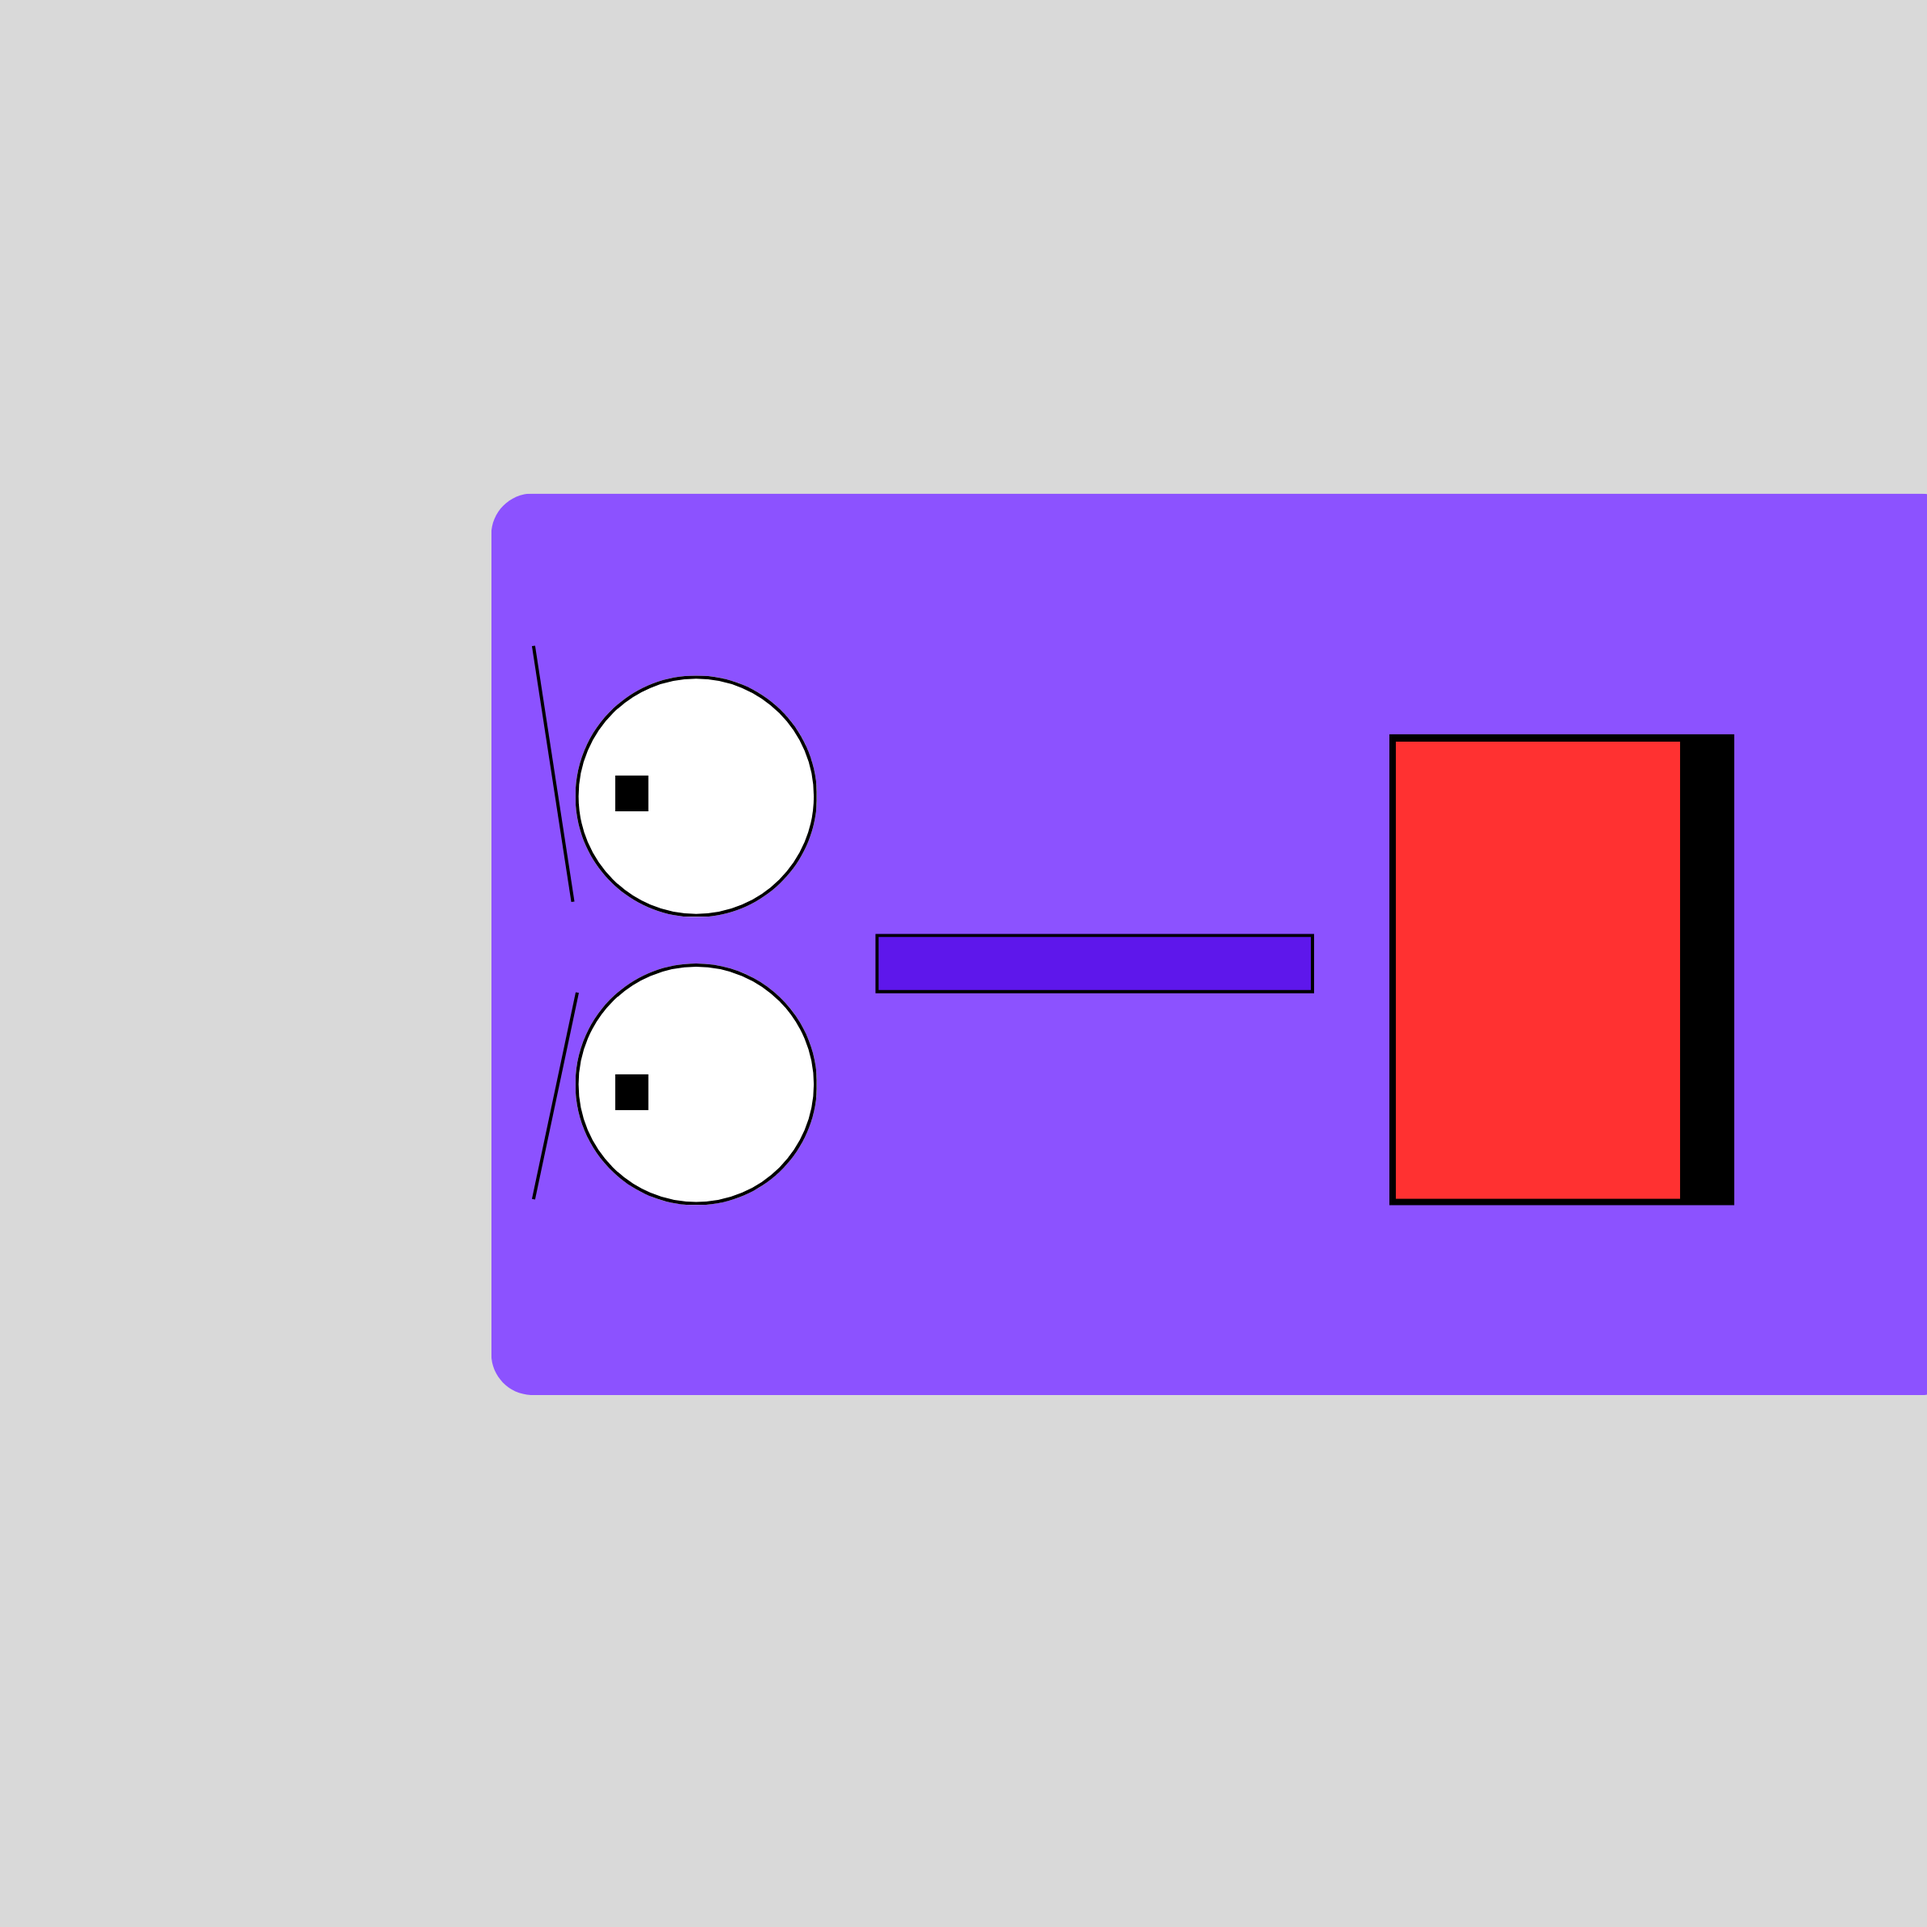
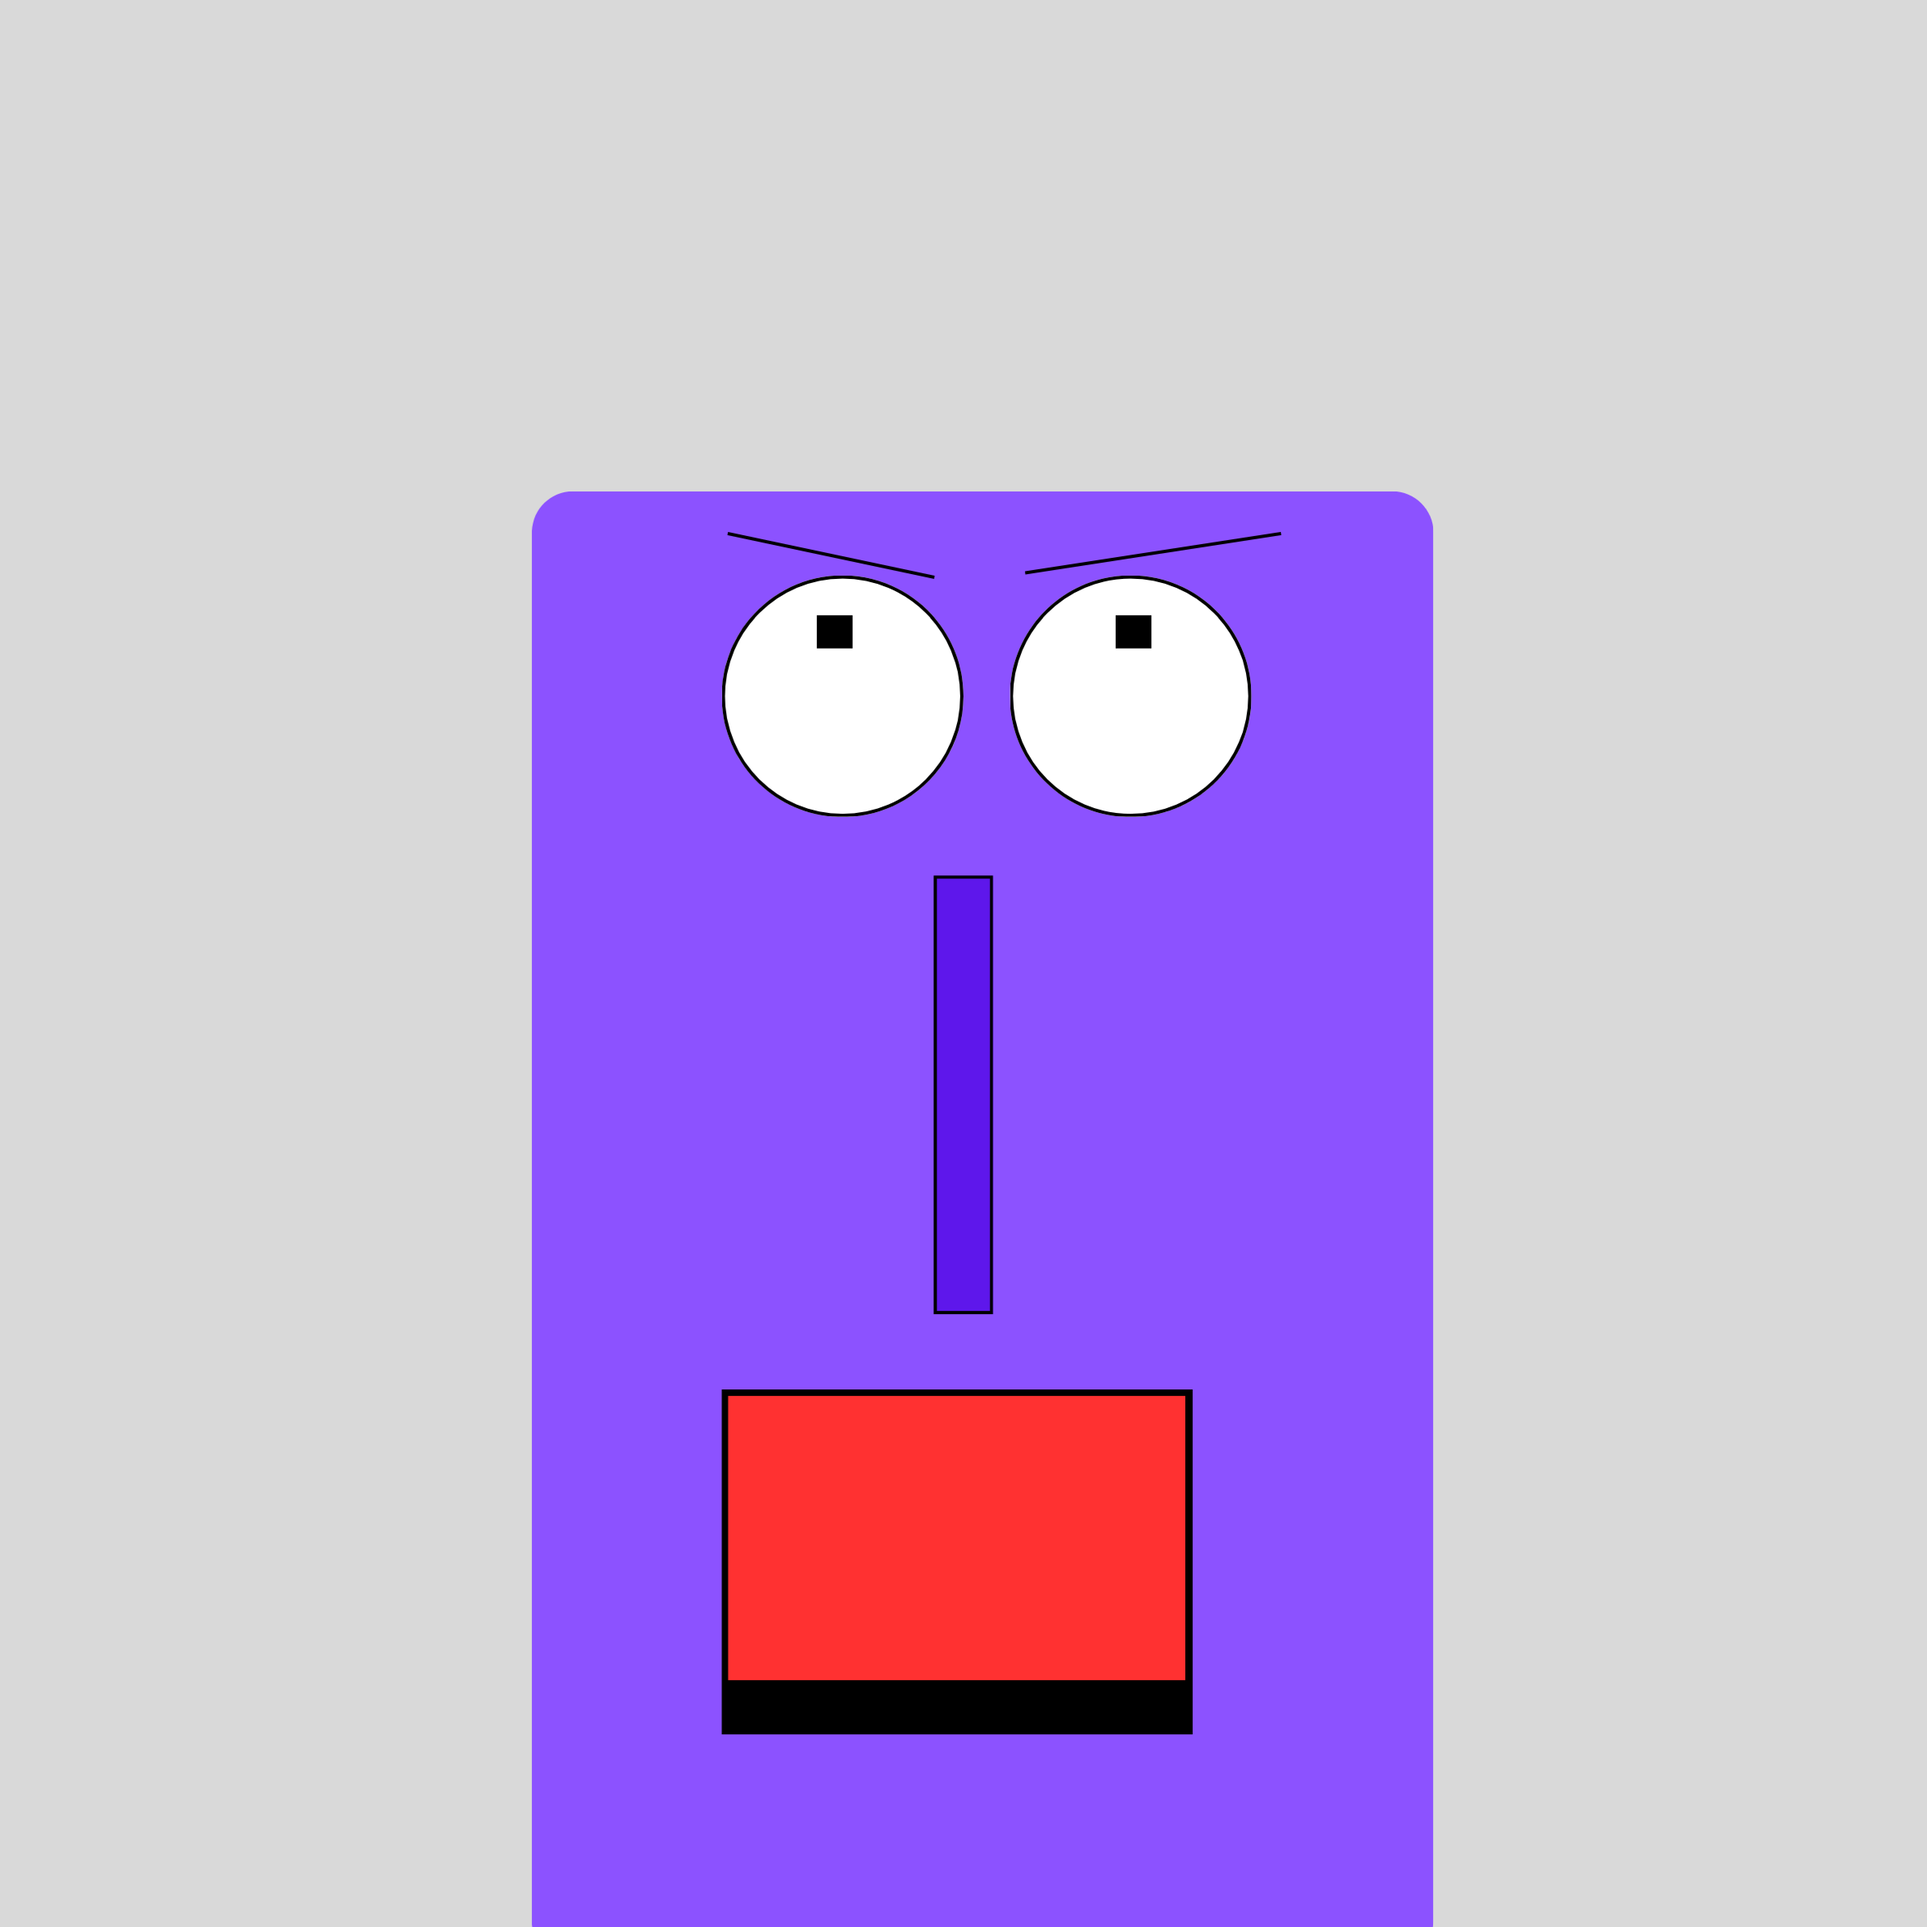
modified model

diff --git a/updatescript.py b/updatescript.py
@@ -1,12 +1,10 @@
 import os
 import json
 
-
 event_path = os.getenv('GITHUB_EVENT_PATH')
 
-
 if not event_path:
-    print("GitHub event data not found.")
+    print("GitHub event data not found")
     exit(1)
 
 
@@ -20,16 +18,8 @@ def printBoard(matrix):
         for j, cell in enumerate(row):
             if cell == "HangryHunger":
                 markdown_content += "![](https://github.com/merge-my-pr/merge-my-pr/blob/main/files/HangryHunger.png) | "
-            elif cell == "HangryHungerBody":
-                markdown_content += "![](https://github.com/merge-my-pr/merge-my-pr/blob/main/files/HangryHubgerBody.png) | "
-            elif cell == "HangryHungerTail":
-                markdown_content += "![](https://github.com/merge-my-pr/merge-my-pr/blob/main/files/HangryHungerTail.png) | "
             elif cell == "Tile":
                 markdown_content += "![](https://github.com/merge-my-pr/merge-my-pr/blob/main/files/GrayTile.png) | "
-            elif cell == "HangryHungerCurvedBody":
-                markdown_content += "![](https://github.com/merge-my-pr/merge-my-pr/blob/main/files/HangryHungerCurvedBody.png) | "
-            elif cell == "HangryHungerHeadUp":
-                markdown_content += "![](https://github.com/merge-my-pr/merge-my-pr/blob/main/files/HangryHungerHeadUp.png) | "
             else:
                 print("Invalid space")
         markdown_content += "\n"
@@ -40,15 +30,10 @@ matrix = [
     ["Tile"] * 7,
     ["Tile"] * 7,
     ["Tile"] * 7,
-    ["Tile"] * 7,
-    ["Tile"] * 7,
-    ["Tile"] * 7,
+    ["Tile"] * 7
 ]
 
 matrix[1][3]="HangryHunger"
-matrix[1][4]="HangryHungerBody"
-matrix[1][5]="HangryHungerTail"
-
 
 issue_author = event_data['issue']['user']['login']
 issue_name =event_data['issue']['title']
@@ -70,19 +55,18 @@ def move_snake(matrix, direction):
         # matrix[3][3] = "HangryHungerHeadUp"
         # matrix[4][3] = "HangryHungerCurvedBody"
         # matrix[4][4] = "HangryHungerTail"
-        matrix[new_head_row][new_head_col] = "HangryHungerHeadUp"
-        matrix[head_row][head_col+1] = "HangryHungerTail" 
-        matrix[head_row][head_col+2] = "Tile" 
-        matrix[head_row][head_col]="HangryHungerCurvedBody"
+        # matrix[new_head_row][new_head_col] = "HangryHungerHeadUp"
+        # matrix[head_row][head_col+1] = "HangryHungerTail" 
+        # matrix[head_row][head_col+2] = "Tile" 
+        # matrix[head_row][head_col]="HangryHungerCurvedBody"
+        matrix[new_head_row][new_head_col]="HangryHunger"
+        matrix[head_row][head_col]="Tile"
         print("Snake moved up")
     else:
         print("Invalid direction")
 
-def resetSnake(matrix):
+def resetHunger(matrix):
     matrix[1][3]="HangryHunger"
-    matrix[1][4]="HangryHungerBody"
-    matrix[1][5]="HangryHungerTail"
-
 
 if issue_name == "Move|UP":
         move_snake(matrix,"UP")
@@ -99,7 +83,7 @@ if issue_name == "Move|UP":
             file.write(updated_readme_content)
 
 elif issue_name == "Reset":
-    resetSnake(matrix)
+    resetHunger(matrix)
     with open('Readme.md', 'r') as file:
             readme_content = file.read()
 
